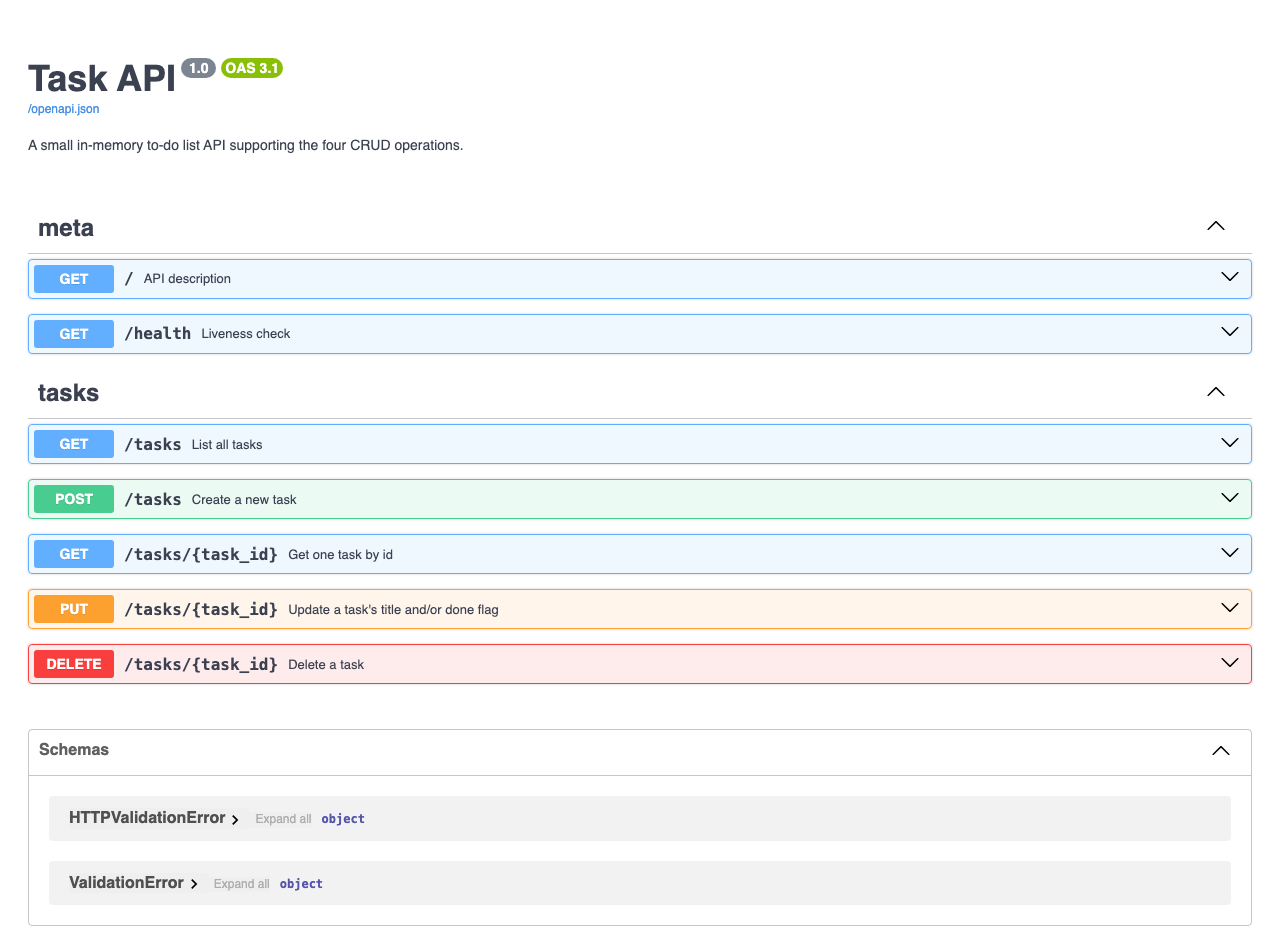
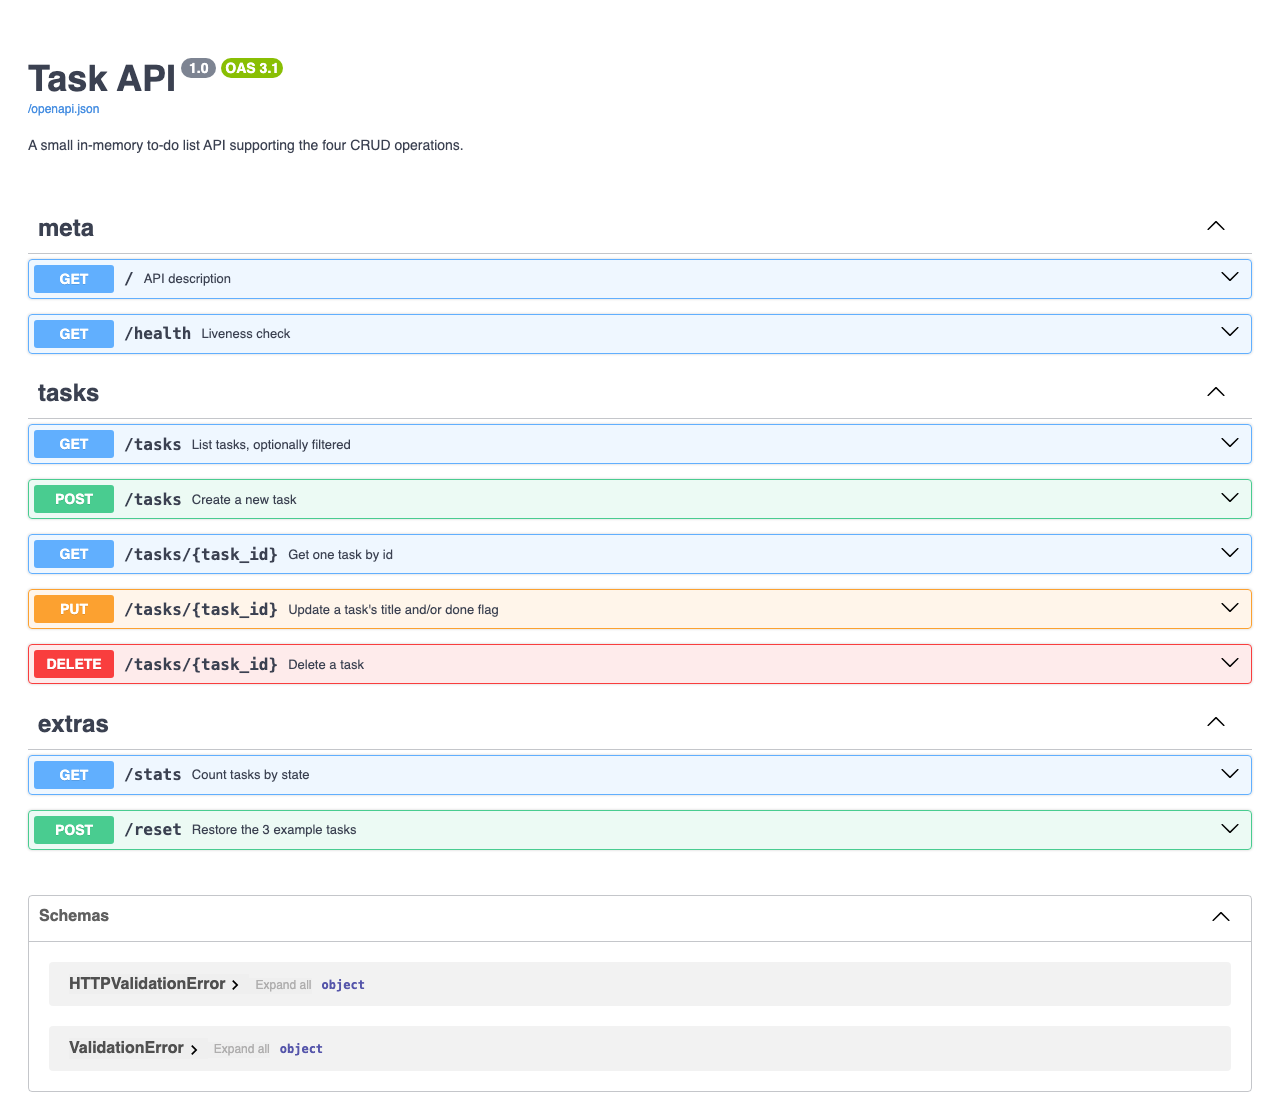
Bonus: filtering, search, stats and reset endpoints

diff --git a/main.py b/main.py
@@ -1,6 +1,7 @@
-from typing import Any, Dict
+import copy
+from typing import Any, Dict, Optional
 
-from fastapi import Body, FastAPI, Response
+from fastapi import Body, FastAPI, Query, Response
 from fastapi.responses import JSONResponse
 
 app = FastAPI(
@@ -9,11 +10,13 @@ app = FastAPI(
     version="1.0",
 )
 
-tasks = [
+SEED_TASKS = [
     {"id": 1, "title": "Learn FastAPI", "done": True},
     {"id": 2, "title": "Build a CRUD API", "done": False},
     {"id": 3, "title": "Write a README", "done": False},
 ]
+
+tasks = copy.deepcopy(SEED_TASKS)
 
 
 def find_task(task_id: int):
@@ -43,9 +46,21 @@ def health():
     return {"status": "ok"}
 
 
-@app.get("/tasks", summary="List all tasks", tags=["tasks"])
-def list_tasks():
-    return tasks
+@app.get("/tasks", summary="List tasks, optionally filtered", tags=["tasks"])
+def list_tasks(
+    done: Optional[bool] = Query(default=None, description="Keep only finished (true) or unfinished (false) tasks"),
+    search: Optional[str] = Query(default=None, description="Keep only tasks whose title contains this text"),
+):
+    results = tasks
+
+    if done is not None:
+        results = [task for task in results if task["done"] == done]
+
+    if search is not None:
+        needle = search.strip().lower()
+        results = [task for task in results if needle in task["title"].lower()]
+
+    return results
 
 
 @app.get("/tasks/{task_id}", summary="Get one task by id", tags=["tasks"])
@@ -99,3 +114,16 @@ def delete_task(task_id: int):
 
     tasks.remove(task)
     return Response(status_code=204)
+
+
+@app.get("/stats", summary="Count tasks by state", tags=["extras"])
+def stats():
+    done_count = sum(1 for task in tasks if task["done"])
+    return {"total": len(tasks), "done": done_count, "open": len(tasks) - done_count}
+
+
+@app.post("/reset", summary="Restore the 3 example tasks", tags=["extras"])
+def reset():
+    tasks.clear()
+    tasks.extend(copy.deepcopy(SEED_TASKS))
+    return tasks
